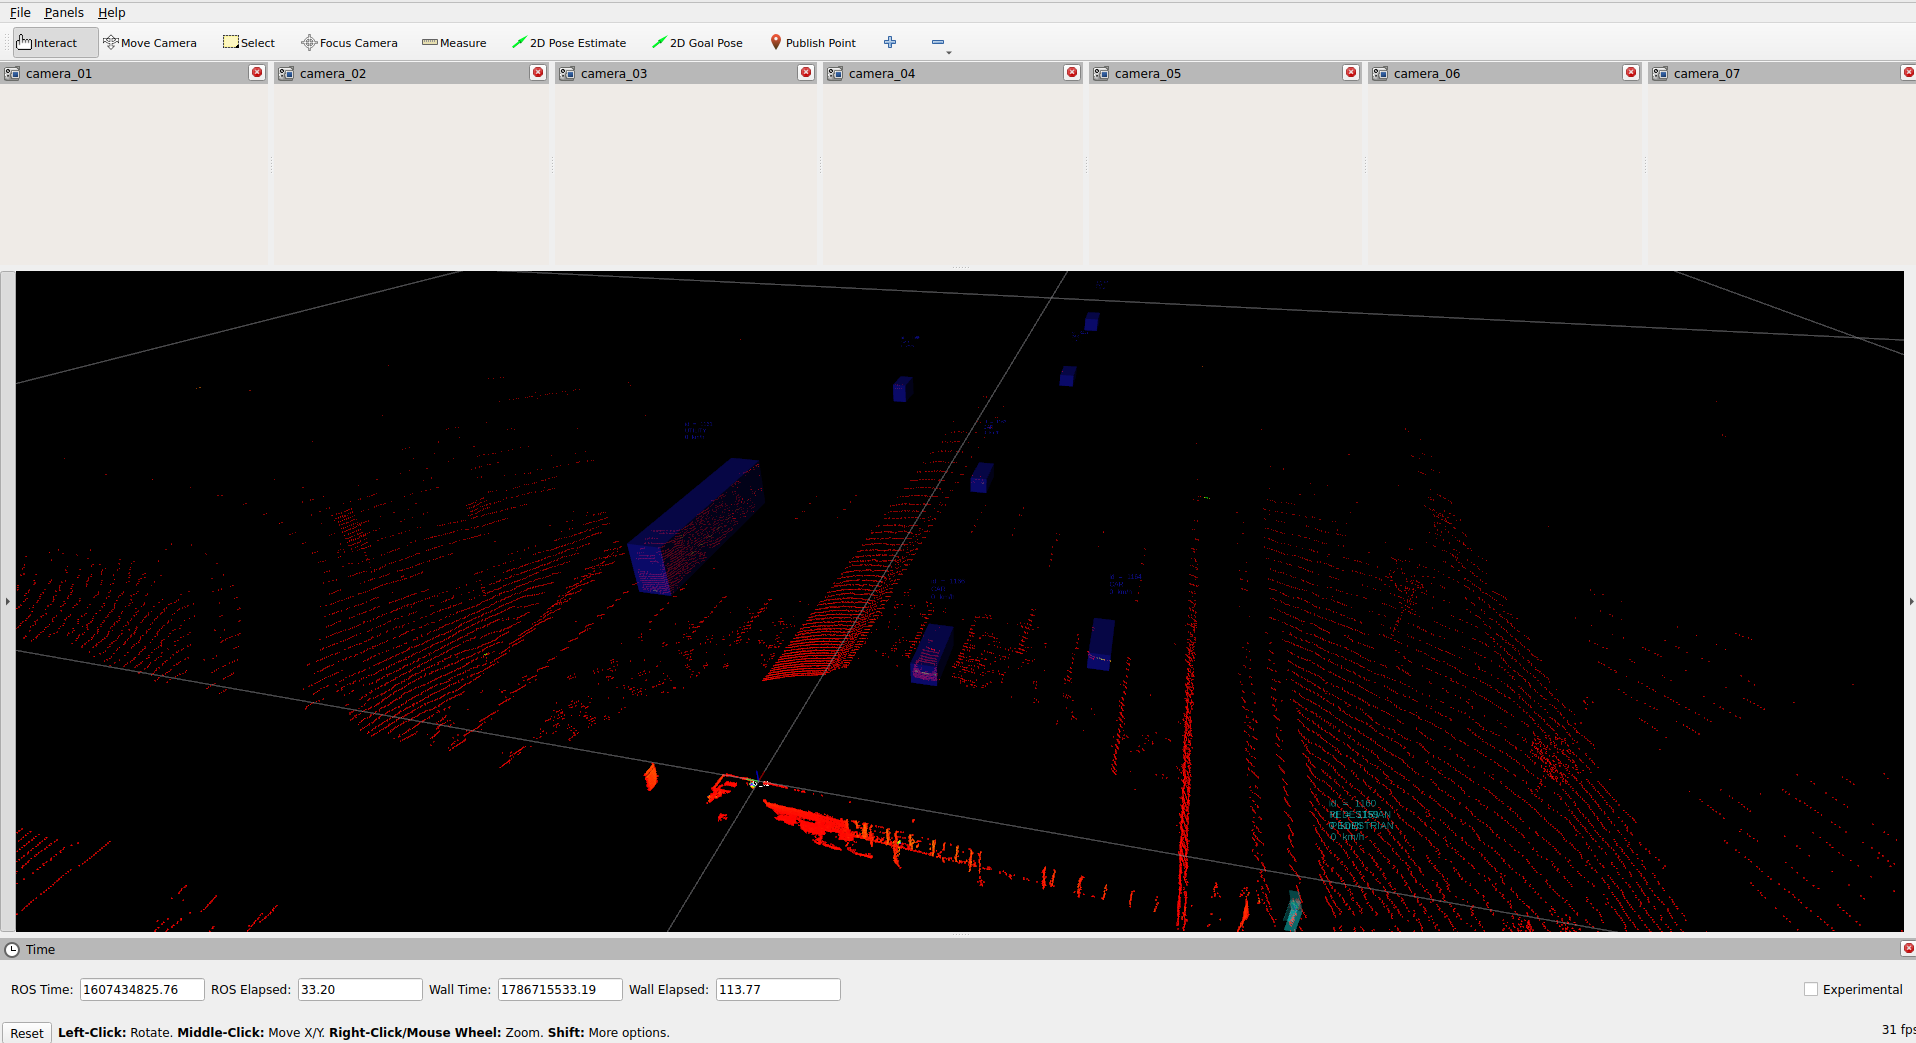
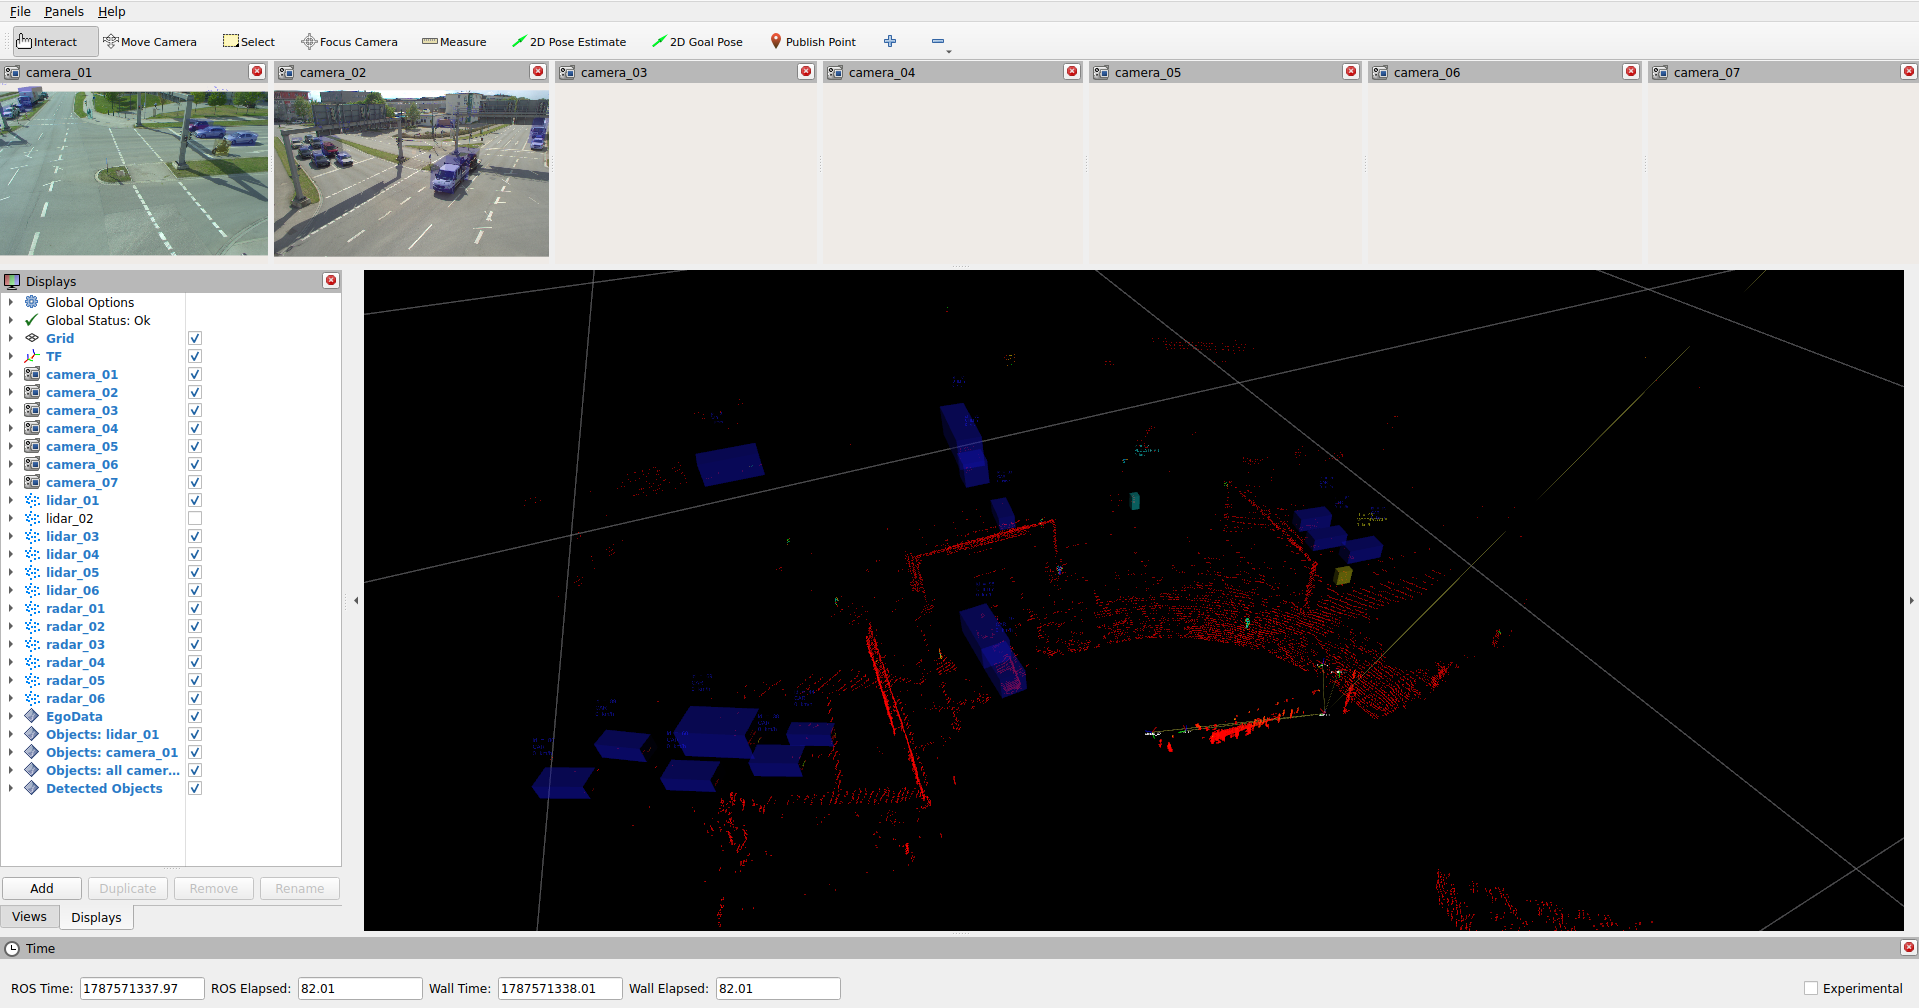
Update READMEs

diff --git a/autonomy_datasets/autonomy_datasets/datasets/tum_traffic/tum_traffic.py b/autonomy_datasets/autonomy_datasets/datasets/tum_traffic/tum_traffic.py
@@ -24,8 +24,13 @@ Rather than hard-coding every release, this adapter discovers the recordings bel
 directory, derives the sensors and frame timestamps from the file names, and maps the sensors
 onto the canonical ``camera_XX`` / ``lidar_XX`` topics.
 
+Only ``R00`` to ``R02`` are supported. ``R03`` uses an unrelated event-camera layout; ``R04``
+and newer ship a differently-structured, per-frame ``frame_properties.transforms`` calibration
+mechanism (rather than the ``coordinate_systems``/``streams`` this adapter reads) and, in the
+one release checked, no camera calibration at all, so they are not expected to work correctly.
+
 Two label formats hold real 3D cuboids and are converted into an object list: the OpenLABEL
-format (``R02`` and newer) and the native pre-OpenLABEL format of the lidar subsets of ``R00``
+format (``R02``) and the native pre-OpenLABEL format of the lidar subsets of ``R00``
 (``r00_s03``, ``r00_s04``), which annotates a cuboid directly by its location, dimensions and
 yaw (see the dev kit's own loader in ``src/utils/vis_utils.py`` for reference; only yaw is used,
 as roll and pitch are not populated meaningfully in this format).
@@ -214,9 +219,11 @@ class TumTrafficAdapter(DatasetAdapter):
         )
 
         # Sensors are numbered across all selected recordings, so that a sensor keeps its topic
-        # even when a recording of the split does not contain it.
+        # even when a recording of the split does not contain it. The labeled lidar (if any) is
+        # prioritized to become lidar_01.
+        labeled_lidars = frozenset(sensor_id for sensor_id in self._sensor_ids("lidar") if self._has_labels(sensor_id))
         self.camera_topics = _assign_topics(self._sensor_ids("camera"), _CAMERA_ORDER, "camera")
-        self.lidar_topics = _assign_topics(self._sensor_ids("lidar"), _LIDAR_ORDER, "lidar")
+        self.lidar_topics = _assign_topics(self._sensor_ids("lidar"), _LIDAR_ORDER, "lidar", prioritized=labeled_lidars)
         self._warn_about_heterogeneous_recordings()
 
         self.reference_lidar = next(iter(self.lidar_topics), None)
@@ -617,10 +624,21 @@ def _normalize_sensor_id(sensor_id: str) -> str:
     return f"s{int(match.group(1)):03d}_{sensor_id[match.end():]}"
 
 
-def _assign_topics(sensor_ids: Sequence[str], known_order: Sequence[str], prefix: str) -> Dict[str, str]:
-    """Map sensor IDs onto canonical ``<prefix>_XX`` topic names in a deterministic order."""
-    ordered = [sensor_id for sensor_id in known_order if sensor_id in sensor_ids]
-    ordered.extend(sorted(sensor_id for sensor_id in sensor_ids if sensor_id not in known_order))
+def _assign_topics(
+    sensor_ids: Sequence[str], known_order: Sequence[str], prefix: str, prioritized: frozenset = frozenset()
+) -> Dict[str, str]:
+    """Map sensor IDs onto canonical ``<prefix>_XX`` topic names in a deterministic order.
+
+    ``prioritized`` sensors are placed first, ahead of the canonical order. This is used so that
+    ``lidar_01`` is always the sensor an object list is annotated in: on releases where the
+    labeled lidar is not the one ``known_order`` would otherwise put first (e.g. a fused
+    vehicle+infrastructure point cloud rather than the raw infrastructure one), it still becomes
+    ``lidar_01``.
+    """
+    remaining = [sensor_id for sensor_id in known_order if sensor_id in sensor_ids]
+    remaining.extend(sorted(sensor_id for sensor_id in sensor_ids if sensor_id not in known_order))
+    ordered = [sensor_id for sensor_id in remaining if sensor_id in prioritized]
+    ordered.extend(sensor_id for sensor_id in remaining if sensor_id not in prioritized)
     return {sensor_id: f"{prefix}_{index:02d}" for index, sensor_id in enumerate(ordered, 1)}
 
 

diff --git a/README.md b/README.md
@@ -35,7 +35,7 @@ This repository supports various automated driving datasets.
 | [**NVIDIA Physical AI AV Dataset (Alpamayo)**](docs/IMPLEMENTATION.md#nvidia-physicalai-av-dataset) | October 2025 | [![commercial](https://img.shields.io/badge/license-commercial-green)](https://huggingface.co/datasets/nvidia/PhysicalAI-Autonomous-Vehicles) [![Hugging Face](https://img.shields.io/badge/origin-Hugging_Face-green)](https://huggingface.co/datasets/nvidia/PhysicalAI-Autonomous-Vehicles) | United States, Germany, France, Italy, Sweden, Spain, Portugal, Greece, Austria, Finland, Croatia, Netherlands, Denmark, Slovenia, Estonia, Slovakia, Belgium, Czechia, Lithuania, Poland, Romania, Luxembourg, Latvia, Hungary, Bulgaria | approx. 17.016.400 samples from 85.082 clips, each 20 seconds (10 Hz) with 1 lidar, 7 cameras and up to 10 radars | ![Rviz Screenshot PhysicalAI AV Dataset](./docs/assets/rviz_nvidia_physicalai_av_dataset.png) |
 | [**DrivIng**](docs/IMPLEMENTATION.md#driving-dataset) | January 2026 | [![non-commercial](https://img.shields.io/badge/license-non--commercial-red)](https://creativecommons.org/licenses/by-nc-nd/4.0/) [![Harvard Dataverse](https://img.shields.io/badge/origin-Harvard_Dataverse-green)](https://doi.org/10.7910/DVN/VBZKDY) | Germany (Ingolstadt) | 3 sequences (day, dusk, night) at 10 Hz with 1 lidar and 6 cameras | ![Rviz Screenshot DrivIng Dataset](./docs/assets/rviz_driving.png) |
 | [**MAN TruckScenes**](docs/IMPLEMENTATION.md#man-truckscenes-dataset) | July 2024 | [![non-commercial](https://img.shields.io/badge/license-non--commercial-red)](https://creativecommons.org/licenses/by-nc-sa/4.0/) [![AWS Open Data](https://img.shields.io/badge/origin-AWS_Open_Data-green)](https://registry.opendata.aws/man-truckscenes/) | Germany | 747 scenes of 20 seconds each, annotated at 2 Hz with 6 lidars, 6 radars and 4 cameras | ![Rviz Screenshot MAN TruckScenes Dataset](./docs/assets/rviz_truckscenes.png) |
-| [**TUM Traffic**](docs/IMPLEMENTATION.md#tum-traffic-dataset) | April 2022 | [![non-commercial](https://img.shields.io/badge/license-non--commercial-red)](https://creativecommons.org/licenses/by-nc-nd/4.0/) [![TUM Traffic Dataset](https://img.shields.io/badge/origin-TUM_Traffic_Dataset-green)](https://tum-traffic-dataset.github.io) | Germany (A9 motorway and S110 intersection near Munich) | Roadside infrastructure subsets (releases `R00` to `R05`) with up to 4 cameras and 2 lidars per sensor station | ![Rviz Screenshot TUM Traffic Dataset](./docs/assets/rviz_tum_traffic.png) |
+| [**TUM Traffic**](docs/IMPLEMENTATION.md#tum-traffic-dataset) | April 2022 | [![non-commercial](https://img.shields.io/badge/license-non--commercial-red)](https://creativecommons.org/licenses/by-nc-nd/4.0/) [![TUM Traffic Dataset](https://img.shields.io/badge/origin-TUM_Traffic_Dataset-green)](https://tum-traffic-dataset.github.io) | Germany (A9 motorway and S110 intersection near Munich) | Roadside infrastructure subsets (releases `R00` to `R02`) with up to 4 cameras and 2 lidars per sensor station | ![Rviz Screenshot TUM Traffic Dataset](./docs/assets/rviz_tum_traffic.png) |
 
 <p align="center">
   <strong>🚀 <a href="#-quick-start">Quick Start</a></strong> • <strong>💻 <a href="#-development">Development</a></strong> • <strong>📝 <a href="#-documentation">Documentation</a></strong>

diff --git a/docs/IMPLEMENTATION.md b/docs/IMPLEMENTATION.md
@@ -264,12 +264,10 @@ The dataset is released as one archive per release and subset. All releases shar
 | `R00` TUMTraf A9 Highway (lidar subsets) | `r00_s03`, `r00_s04` | Roadside lidars | Native pre-OpenLABEL 3D cuboids (yaw-only orientation, no persistent track IDs) |
 | `R01` TUMTraf A9 Highway Extended | `r01_s01` ... `r01_s04` | 4 A9 gantry cameras (`s040`, `s050`) | 3D box corners projected into the image — no object list published, see below |
 | `R02` TUMTraf Intersection | `r02_s01` ... `r02_s04` | 2 S110 cameras, 2 S110 Ouster lidars | OpenLABEL 3D cuboids with track IDs |
-| `R04` TUMTraf V2X Cooperative Perception | `train`, `val`, `test` | 4 S110 cameras, S110 + vehicle lidars | OpenLABEL 3D cuboids with track IDs |
-| `R05` TUMTraf Intersection Extended | `train`, `val`, `test` | 2 S110 cameras, 2 S110 Ouster lidars | OpenLABEL 3D cuboids with track IDs |
 
-> The `R03` TUMTraf Event Dataset uses a different layout (event-camera streams without per-sensor timestamps) and is not supported.
+> **Only `R00` to `R02` are supported.**
 
-> **No object list for the `R00` image subsets and `R01`:** these releases annotate a 3D box only as its 8 corners projected into the 2D image (`box3d_projected`), without releasing the 3D pose (position, dimensions, orientation) that produced the projection. Recovering that pose from a single monocular projection is an ill-posed inverse problem without extra assumptions (an assumed object size and ground plane to resolve the missing depth), so this adapter does not attempt it. These recordings still publish their raw camera images, calibration and transforms — just no `object_list` topic. Only recordings with real 3D cuboids (the `R00` lidar subsets, native pre-OpenLABEL format, and `R02` and newer, OpenLABEL) publish `/object_list/lidar_01`.
+> **No object list for the `R00` image subsets and `R01`:** these releases annotate a 3D box only as its 8 corners projected into the 2D image (`box3d_projected`), without releasing the 3D pose (position, dimensions, orientation) that produced the projection. Recovering that pose from a single monocular projection is an ill-posed inverse problem without extra assumptions (an assumed object size and ground plane to resolve the missing depth), so this adapter does not attempt it. These recordings still publish their raw camera images, calibration and transforms — just no `object_list` topic. Only recordings with real 3D cuboids (the `R00` lidar subsets, native pre-OpenLABEL format, and `R02`, OpenLABEL) publish `/object_list/lidar_01`.
 >
 > The `R00` lidar subsets ship no `_calibration` directory and their native label format carries no coordinate system information either (unlike OpenLABEL), so no calibration source exists in the dataset for them. Since these recordings have exactly one sensor (a lidar) and no calibrated pose to fall back to, `base_link` is aliased to that sensor's frame with an identity transform instead of publishing no static transform at all — `/tf_static` therefore still resolves, just without a real physical offset.
 
